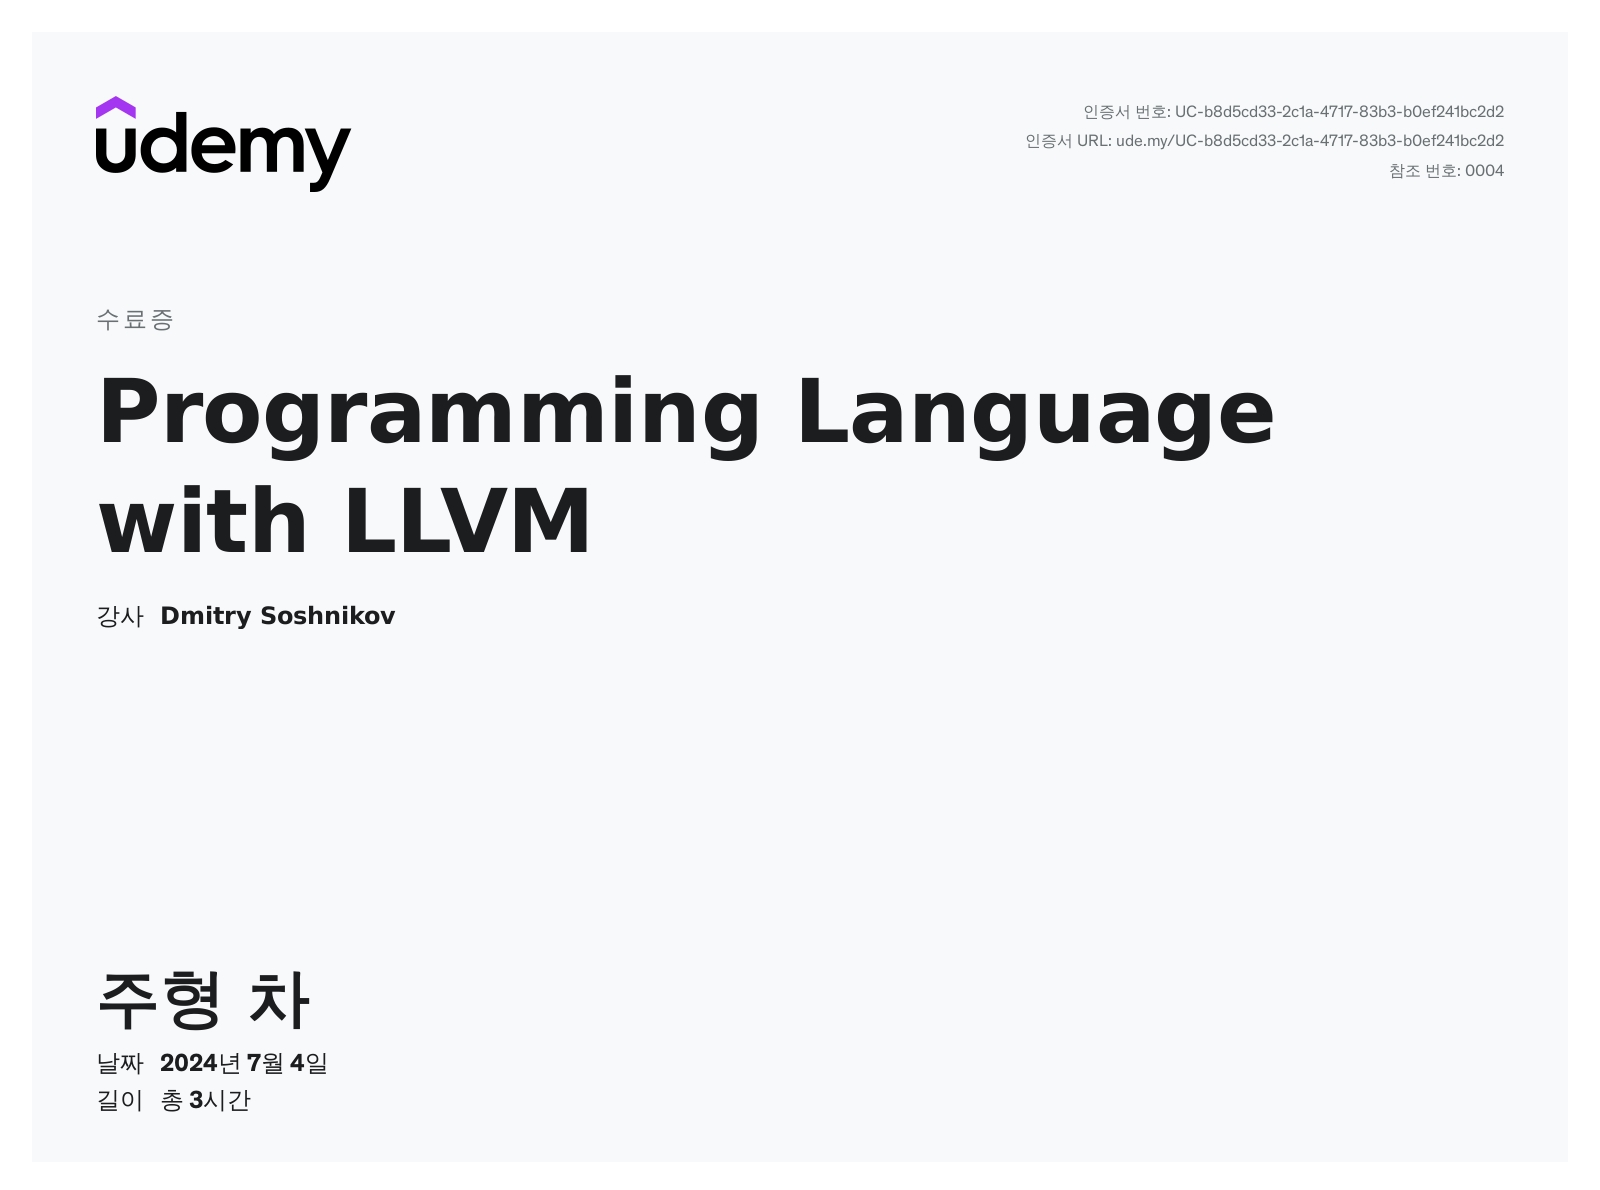
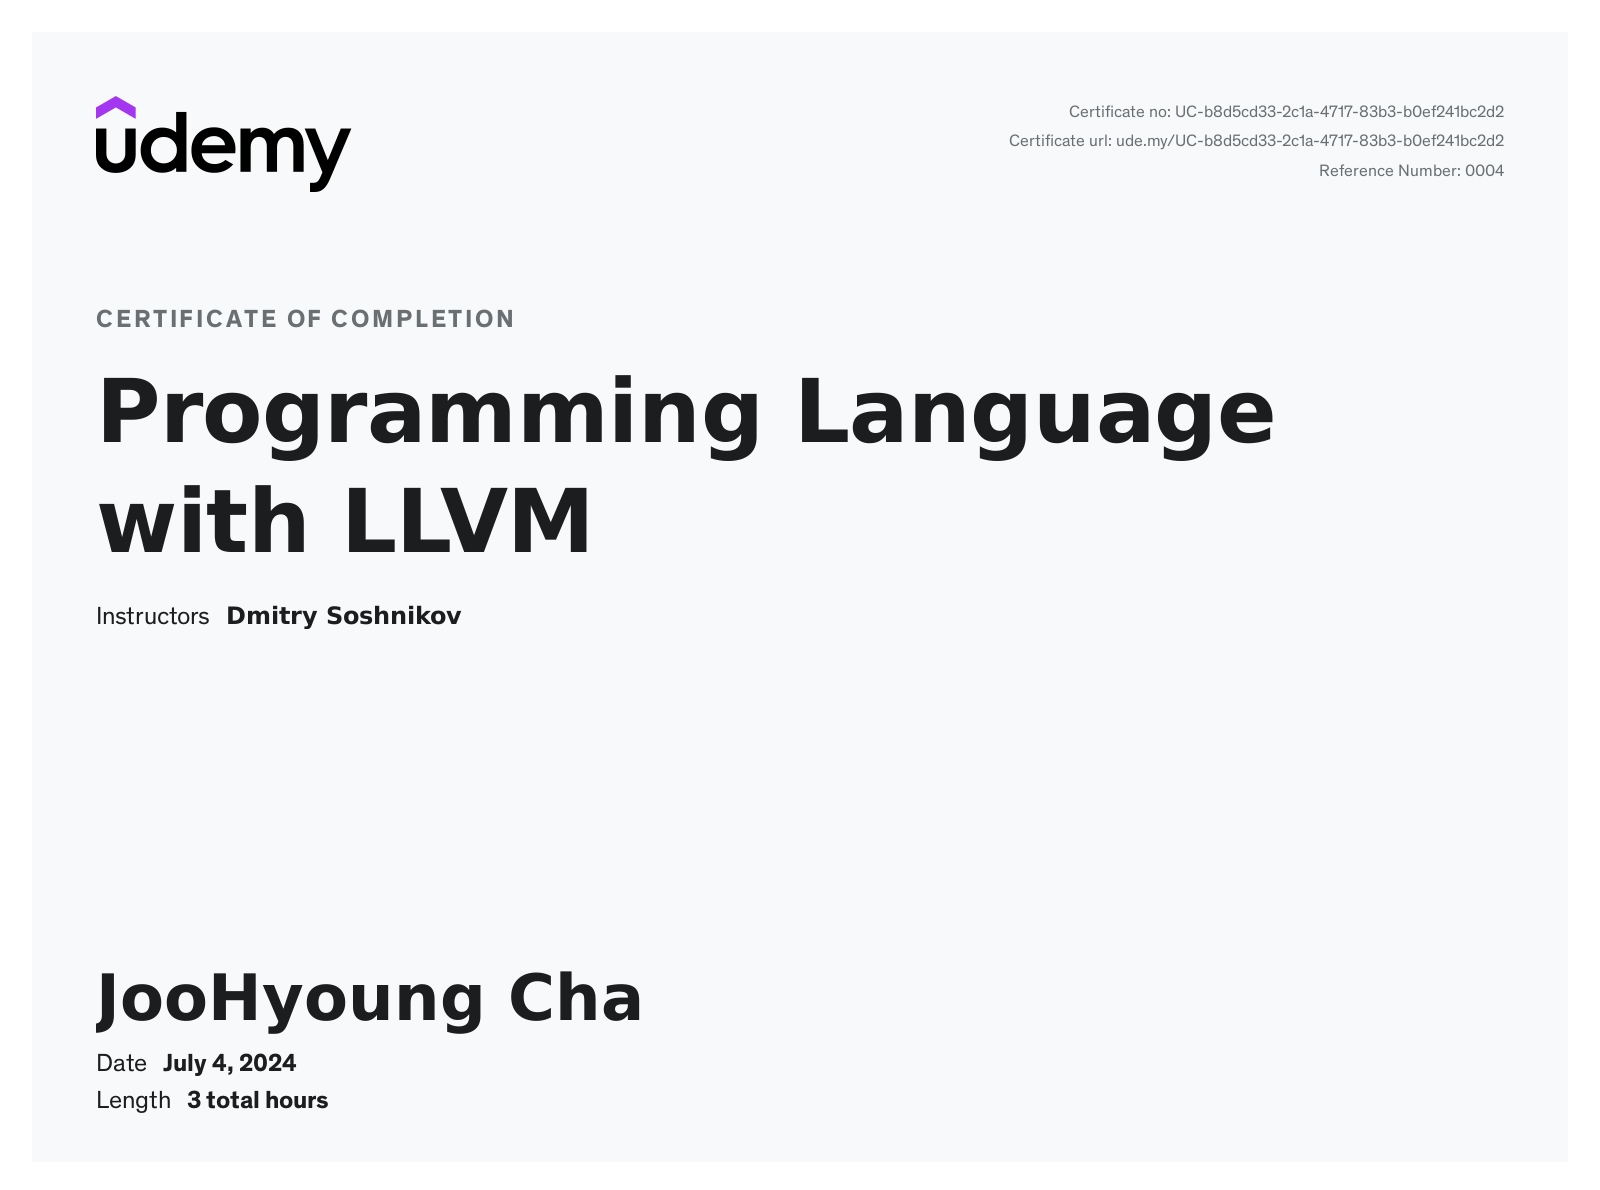
.

diff --git a/_posts/2024-07-05-frontend-of-llvm.md b/_posts/2024-07-05-frontend-of-llvm.md
@@ -141,4 +141,4 @@ Class:               +---------------+
 
 그리고 가장 신기하였던 부분으로는 상속으로 인한 `vtable`이란 내용에서 이전에 읽은 `Optimized C++` 책에서 `가상 함수`는 매우 느리다 란 내용에서 왜 느린지, 어떻게 동작이 되는지에 대해서 컴파일러 레벨에서 공부 할 수 있어서 매우 좋은 기회가 되었다.
 
-![](/assets/img/post/2024-07-05-01.jpg)
+[![](/assets/img/post/2024-07-05-01.jpg)](https://www.udemy.com/certificate/UC-b8d5cd33-2c1a-4717-83b3-b0ef241bc2d2/)
